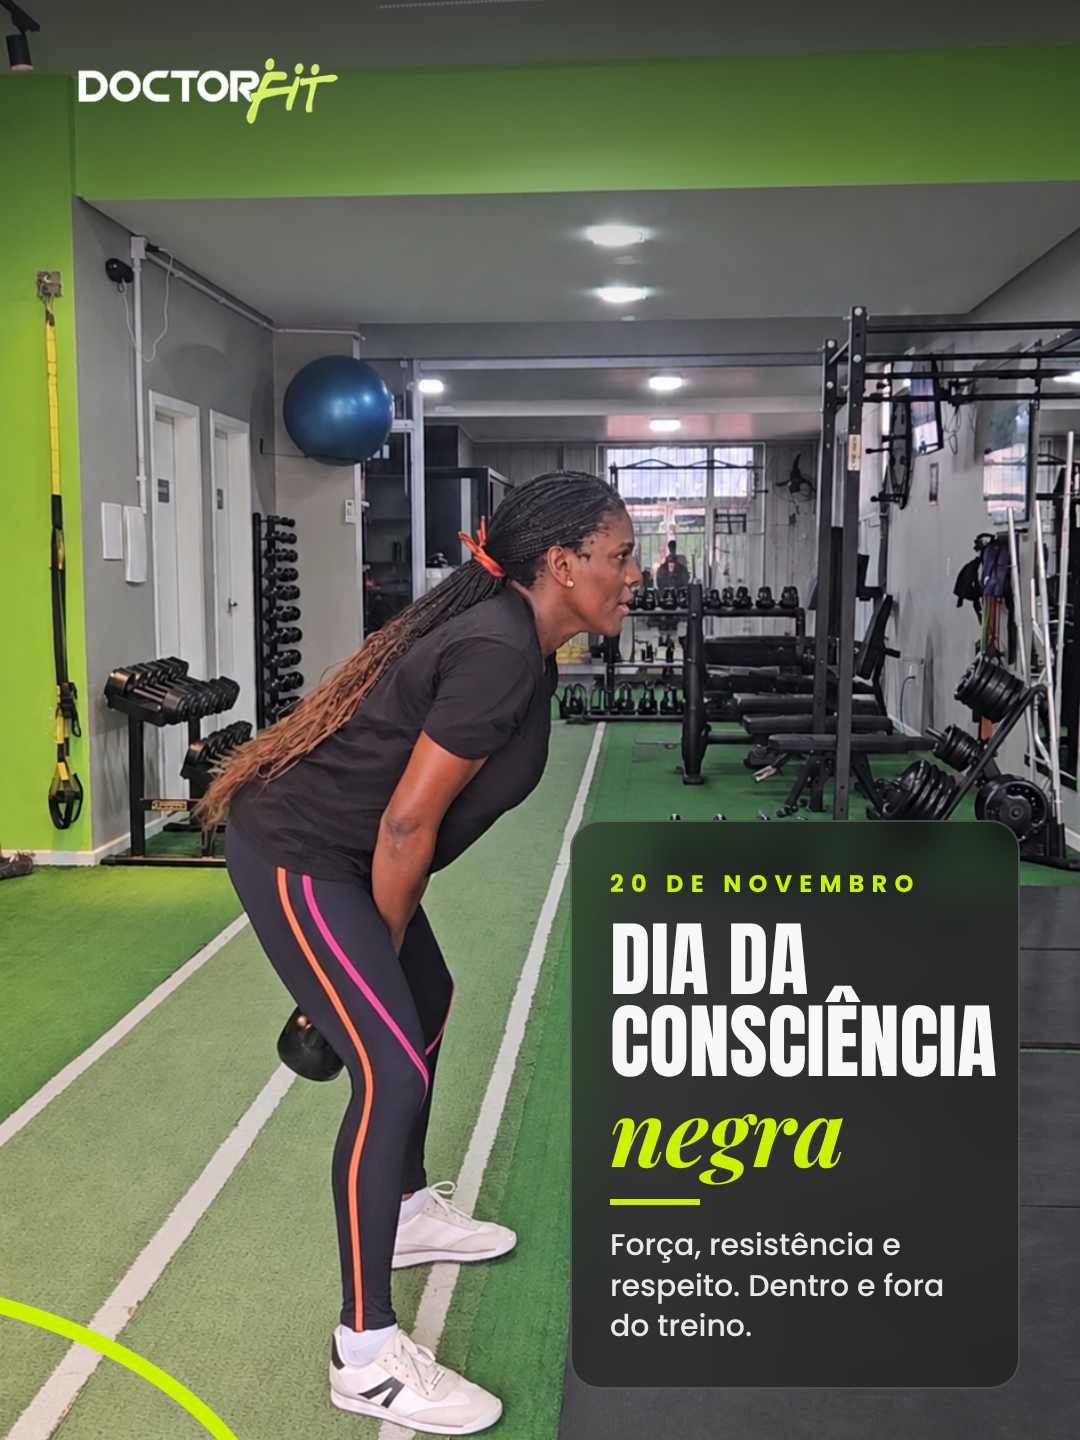
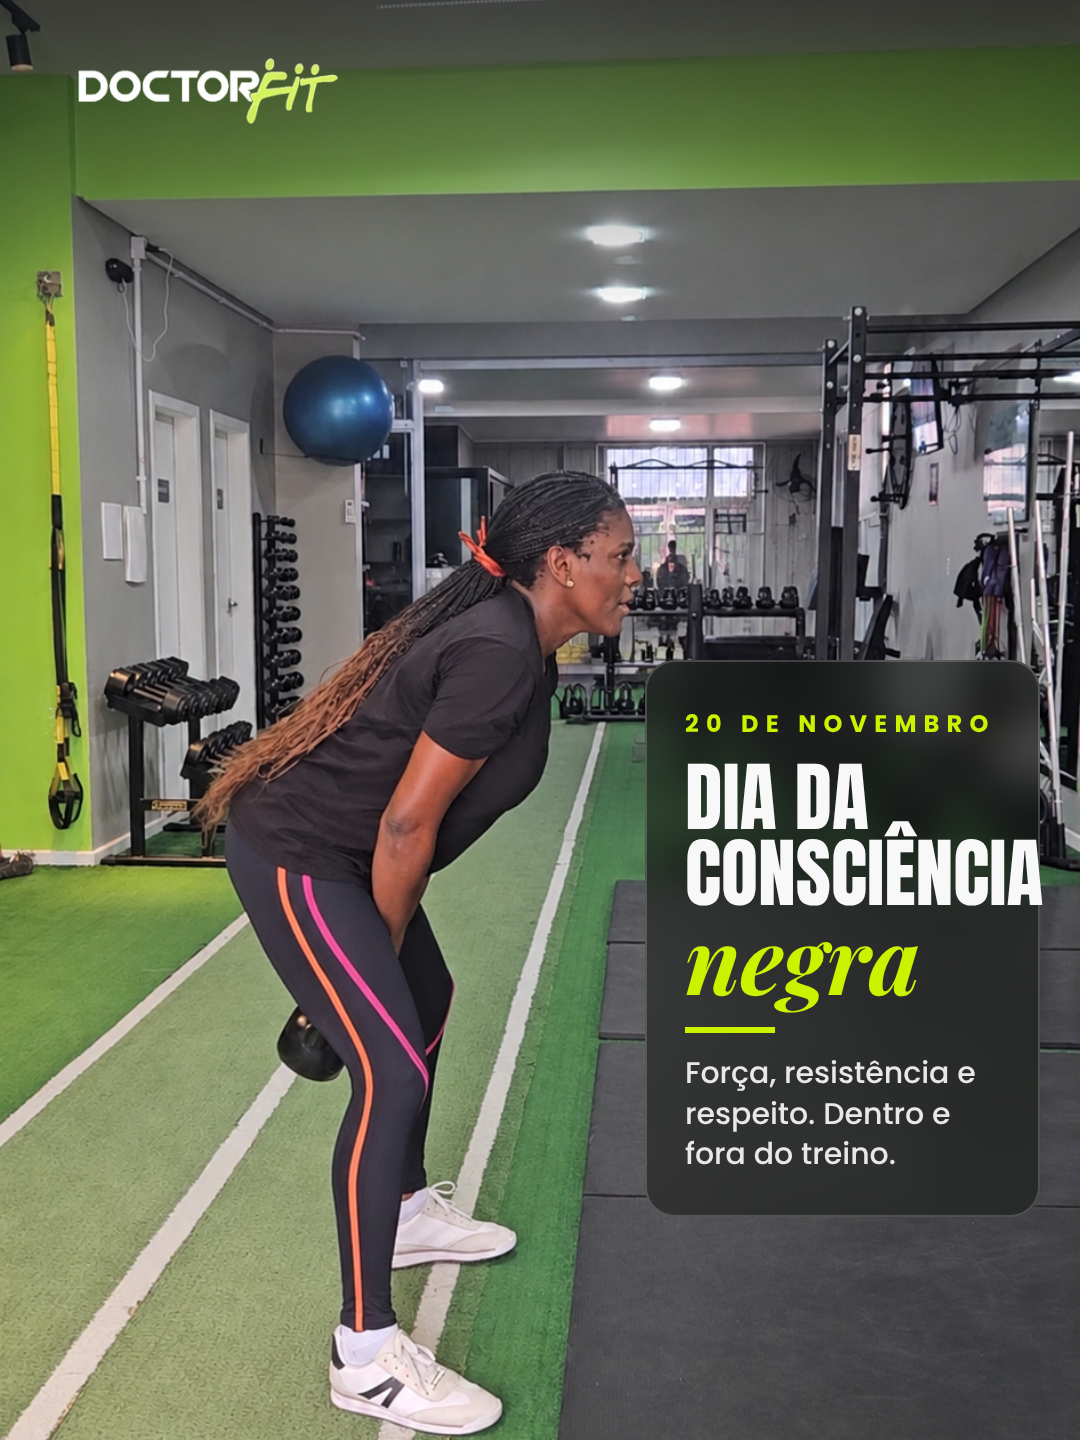
DoctorFit: capa vidro sem curva e cartão mais próximo
Claude-Session: https://claude.ai/code/session_012bVqEb5M2bw1tnz2qQiCDo

Changed region(s): [[0.5194, 0.4375, 0.9778, 0.9688], [0.0, 0.9062, 0.2139, 1.0]]

diff --git a/doctorfit/capas/consciencia_negra/capa_foto3.html b/doctorfit/capas/consciencia_negra/capa_foto3.html
@@ -5,9 +5,9 @@ html,body{width:1080px;height:1440px;overflow:hidden;background:#0c0c0c}
 .f{position:absolute;left:0;top:-200px;width:1080px;height:1899px;background:url(foto_aluna.png) center top/cover}
 .g{position:absolute;inset:0;background:linear-gradient(180deg,rgba(8,9,8,.6) 0%,rgba(8,9,8,0) 22%)}
 .logo{position:absolute;left:78px;top:58px;width:260px}
-.vidro{position:absolute;left:570px;top:820px;width:450px;padding:44px 38px 40px;border-radius:30px;background:rgba(14,18,12,.5);border:2px solid rgba(255,255,255,.18);backdrop-filter:blur(20px);-webkit-backdrop-filter:blur(20px)}
+.vidro{position:absolute;left:645px;top:660px;width:395px;padding:44px 38px 40px;border-radius:30px;background:rgba(14,18,12,.5);border:2px solid rgba(255,255,255,.18);backdrop-filter:blur(20px);-webkit-backdrop-filter:blur(20px)}
 .v1{font-family:Poppins;font-weight:700;font-size:24px;letter-spacing:.3em;color:#ccf200}
-.v2{font-family:Anton;font-size:82px;line-height:1;color:#f8f8f8;text-transform:uppercase;margin-top:18px}
+.v2{font-family:Anton;font-size:76px;line-height:1;color:#f8f8f8;text-transform:uppercase;margin-top:18px}
 .v3{font-family:'Playfair Display',serif;font-style:italic;font-weight:700;font-size:92px;line-height:1;color:#ccf200}
 .tr{width:90px;height:6px;background:#ccf200;margin:24px 0 20px}
 .v4{font-family:Poppins;font-weight:500;font-size:30px;line-height:1.35;color:rgba(248,248,248,.92)}
@@ -17,5 +17,4 @@ html,body{width:1080px;height:1440px;overflow:hidden;background:#0c0c0c}
 <img class="logo" src="logo.png">
 <div class="vidro"><div class="v1">20 DE NOVEMBRO</div><div class="v2">Dia da<br>Consciência</div><div class="v3">negra</div><div class="tr"></div>
 <div class="v4">Força, resistência e respeito. Dentro e fora do treino.</div></div>
-<svg class="curva" viewBox="0 0 1080 1440"><path d="M-20 1300 C 100 1330, 200 1390, 250 1470" stroke="#ccf200" stroke-width="16" fill="none" stroke-linecap="round"/></svg>
 </body></html>
